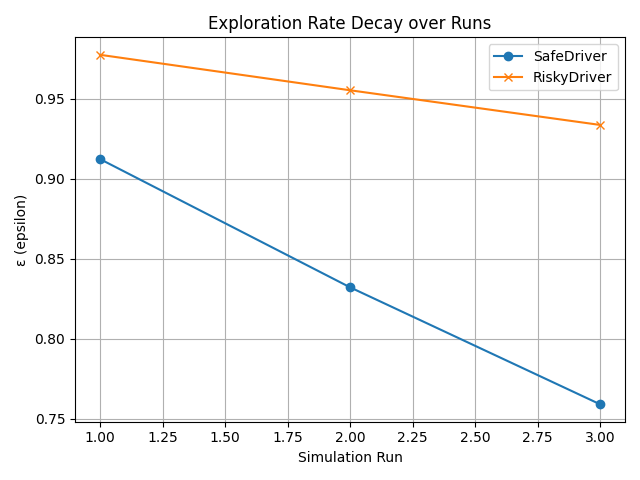
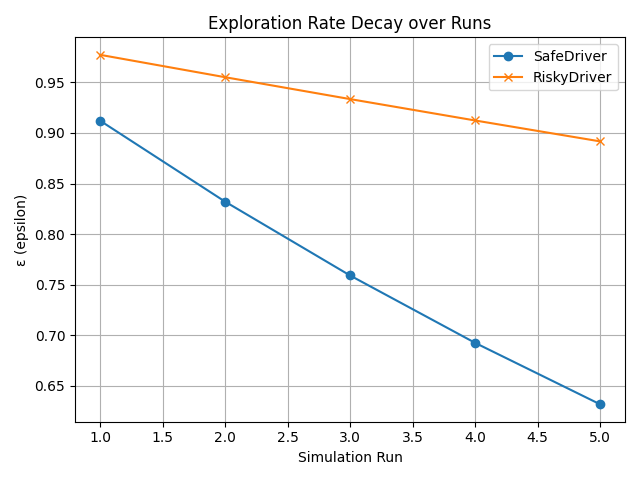
feat: added tracking of green encs/runs

diff --git a/src/simulation/simulation_runner.py b/src/simulation/simulation_runner.py
@@ -41,8 +41,10 @@ class SimulationRunner:
                     'tls_stop_count': 0,
                     'amber_encountered': 0,
                     'red_encountered': 0,
+                    'green_encountered': 0,
                     'amber_run_count': 0,
                     'red_run_count': 0,
+                    'green_run_count': 0,
                     'tls_last_state': {},
                     'max_speed': 0.0,
                     'sudden_brake_count': 0,
@@ -91,12 +93,19 @@ class SimulationRunner:
                                 rec['amber_encountered'] += 1
                             elif 'r' in raw_state:
                                 rec['red_encountered'] += 1
+                            elif 'g' in raw_state:
+                                rec['green_encountered'] += 1
 
                     passed = set(rec['tls_last_state']) - seen_ids
                     for tls_id in passed:
                         last = rec['tls_last_state'].pop(tls_id)
-                        if last == 'y':
-                            rec['tls_stop_count'] += 1
+                        # count one run per TLS passed, based on last observed color
+                        if 'y' in last:
+                            rec['amber_run_count'] += 1
+                        elif 'r' in last:
+                            rec['red_run_count'] += 1
+                        elif 'g' in last:
+                            rec['green_run_count'] += 1
 
                     # speed stuff
                     # max speed
@@ -138,20 +147,11 @@ class SimulationRunner:
             except traci.TraCIException:
                 pass
 
-            #FIXME: overwrites amber/red encs
-            # # get tls metrics
             # for agent in agent_manager.agents:
-            #     vid = getattr(agent, 'vehicle_id', None) or getattr(agent, 'vid', None)
+            #     vid = agent.vehicle_id
             #     rec = data[vid]
-            #     rec['amber_encountered'] = agent.recorder.amber_encounters
-            #     rec['red_encountered']   = agent.recorder.red_encounters
-            #     rec['amber_run_count']   = agent.recorder.amber_runs
-            #     rec['red_run_count']     = agent.recorder.red_runs
-
-            for agent in agent_manager.agents:
-                vid = agent.vehicle_id
-                rec = data[vid]
-                rec['amber_run_count'] = agent.recorder.amber_runs
-                rec['red_run_count']   = agent.recorder.red_runs
+            #     rec['amber_run_count'] = agent.recorder.amber_runs
+            #     rec['red_run_count'] = agent.recorder.red_runs
+            #     rec['green_run_count'] = agent.recorder.green_runs
 
         return data, route_idx

diff --git a/src/metrics/metrics_collector.py b/src/metrics/metrics_collector.py
@@ -39,8 +39,10 @@ class MetricsCollector:
                     len(rec['tls_encountered']),  
                     rec['amber_encountered'],
                     rec['red_encountered'],
+                    rec['green_encountered'],
                     rec['amber_run_count'],
                     rec['red_run_count'],
+                    rec['green_run_count'],
                     rec['sudden_brake_count'],
                     round(rec['max_decel'], 2),
                     round(avg_decel, 2),
@@ -67,8 +69,8 @@ class MetricsCollector:
         agg = {
             vid: {
                 'sum_time': 0, 'sum_dist': 0.0, 'sum_sp': 0.0, 'sum_max_sp': 0.0,
-                'sum_edges': 0, 'sum_tls': 0, 'sum_amb_enc': 0, 'sum_red_enc': 0,
-                'sum_amb_runs': 0, 'sum_red_runs': 0,'sum_sud_brakes': 0, 'sum_max_decel': 0.0, 
+                'sum_edges': 0, 'sum_tls': 0, 'sum_amb_enc': 0, 'sum_red_enc': 0, 'sum_green_enc': 0,
+                'sum_amb_runs': 0, 'sum_red_runs': 0, 'sum_green_runs':0, 'sum_sud_brakes': 0, 'sum_max_decel': 0.0, 
                 'sum_avg_decel': 0.0, 'sum_lane_changes': 0, 'sum_collisions': 0, 'sum_wait_time': 0.0, 'count': 0
             }
             for vid in ["safe_1", "risky_1"]
@@ -94,8 +96,10 @@ class MetricsCollector:
                 s['sum_tls'] += len(rec['tls_encountered'])
                 s['sum_amb_enc'] += rec['amber_encountered']
                 s['sum_red_enc'] += rec['red_encountered']
+                s['sum_green_enc'] += rec['green_encountered']
                 s['sum_amb_runs'] += rec['amber_run_count']
                 s['sum_red_runs'] += rec['red_run_count']
+                s['sum_green_runs'] += rec['green_run_count']
                 s['sum_sud_brakes'] += rec['sudden_brake_count']
                 s['sum_max_decel'] += rec['max_decel']
                 s['sum_avg_decel'] += avg_decel
@@ -120,8 +124,10 @@ class MetricsCollector:
                     round(s['sum_tls'] / c, 2),
                     round(s['sum_amb_enc'] / c, 2),
                     round(s['sum_red_enc'] / c, 2),
+                    round(s['sum_green_enc'] /c, 2),
                     round(s['sum_amb_runs'] / c, 2),
                     round(s['sum_red_runs'] / c, 2),
+                    round(s['sum_green_runs'] / c, 2),
                     round(s['sum_sud_brakes'] / c, 2),
                     round(s['sum_max_decel'] / c, 2),
                     round(s['sum_avg_decel'] / c, 2),

diff --git a/src/simulation/batch.py b/src/simulation/batch.py
@@ -179,8 +179,8 @@ def main(num_runs: int = 100):
         os.path.join(CSV_DIR, "simulation_per_run.csv"),
         headers=[
             "Agent", "Route", "Time(steps)", "Distance(m)", "Speed(m/s)",
-            "MaxSpeed(m/s)", "Edges", "TLS_enc", "Amber_enc", "Red_enc",
-            "Amber_runs", "Red_runs", "Sudden_brakes", "MaxDecel(m/s^2)",
+            "MaxSpeed(m/s)", "Edges", "TLS_enc", "Amber_enc", "Red_enc", "Green_enc",
+            "Amber_runs", "Red_runs", "Green_runs", "Sudden_brakes", "MaxDecel(m/s^2)",
             "AvgDecel(m/s^2)", "Lane_changes", "Collisions", "WaitTime(s)"
         ],
         rows=per_rows
@@ -191,13 +191,13 @@ def main(num_runs: int = 100):
         headers=[
             "Agent", "AvgTime(steps)", "AvgDistance(m)", "AvgSpeed(m/s)",
             "AvgMaxSpeed(m/s)", "AvgEdges", "NumRuns", "AvgTLS_enc",
-            "AvgAmber_enc", "AvgRed_enc", "AvgAmber_runs", "AvgRed_runs",
-            "AvgSudden_brakes", "AvgMaxDecel(m/s^2)", "AvgAvgDecel(m/s^2)",
+            "AvgAmber_enc", "AvgRed_enc", "AvgGreen_enc", "AvgAmber_runs", "AvgRed_runs",
+            "AvgGreen_runs", "AvgSudden_brakes", "AvgMaxDecel(m/s^2)", "AvgAvgDecel(m/s^2)",
             "AvgLane_changes", "AvgCollisions", "AvgWaitTime(s)",
-            "TotalTLS_enc", "TotalAmber_enc", "TotalRed_enc"
+            "TotalTLS_enc", "TotalAmber_enc", "TotalRed_enc", "TotalGreen_enc"
         ],
         rows=avg_rows
     )
 
 if __name__ == "__main__":
-    main(3)
+    main(5)

diff --git a/src/agents/risky_driver.py b/src/agents/risky_driver.py
@@ -108,6 +108,8 @@ class RiskyDriver(QLearningDriver):
             self.recorder.ran_amber()
         if phase == "RED" and action == "GO":
             self.recorder.ran_red()
+        if phase == "GREEN" and action == "GO":
+            self.recorder.ran_green()
 
         logger.debug(
             "RiskyDriver %s: %s --%s--> %s = %.3f",
@@ -117,7 +119,6 @@ class RiskyDriver(QLearningDriver):
         return r
 
     def apply_action(self, action: str) -> None:
-        # identical to before: STOP / SLOW / GO map to TraCI calls
         if action == 'STOP':
             traci.vehicle.setSpeed(self.vehicle_id, 0.0)
         elif action == 'SLOW':

diff --git a/src/simulation/tls_recorder.py b/src/simulation/tls_recorder.py
@@ -2,8 +2,10 @@ class TLSEventRecorder:
     def __init__(self):
         self.amber_encounters = 0
         self.red_encounters = 0
+        self.green_encounters = 0
         self.amber_runs = 0
         self.red_runs = 0
+        self.green_runs = 0
 
     def saw_amber(self):
         self.amber_encounters += 1
@@ -11,8 +13,14 @@ class TLSEventRecorder:
     def saw_red(self):
         self.red_encounters += 1
 
+    def saw_green(self):
+        self.green_encounters += 1
+
     def ran_amber(self):
         self.amber_runs += 1
 
     def ran_red(self):
         self.red_runs += 1
+
+    def ran_green(self):
+        self.green_runs += 1

diff --git a/src/agents/safe_driver.py b/src/agents/safe_driver.py
@@ -104,6 +104,8 @@ class SafeDriver(QLearningDriver):
             self.recorder.ran_amber()
         if phase == "RED" and action == "GO":
             self.recorder.ran_red()
+        if phase == "GREEN" and action == "GO":
+            self.recorder.ran_green()
 
         logger.debug(
             "SafeDriver %s: %s --%s--> %s | decel=%.2f = %.3f",
